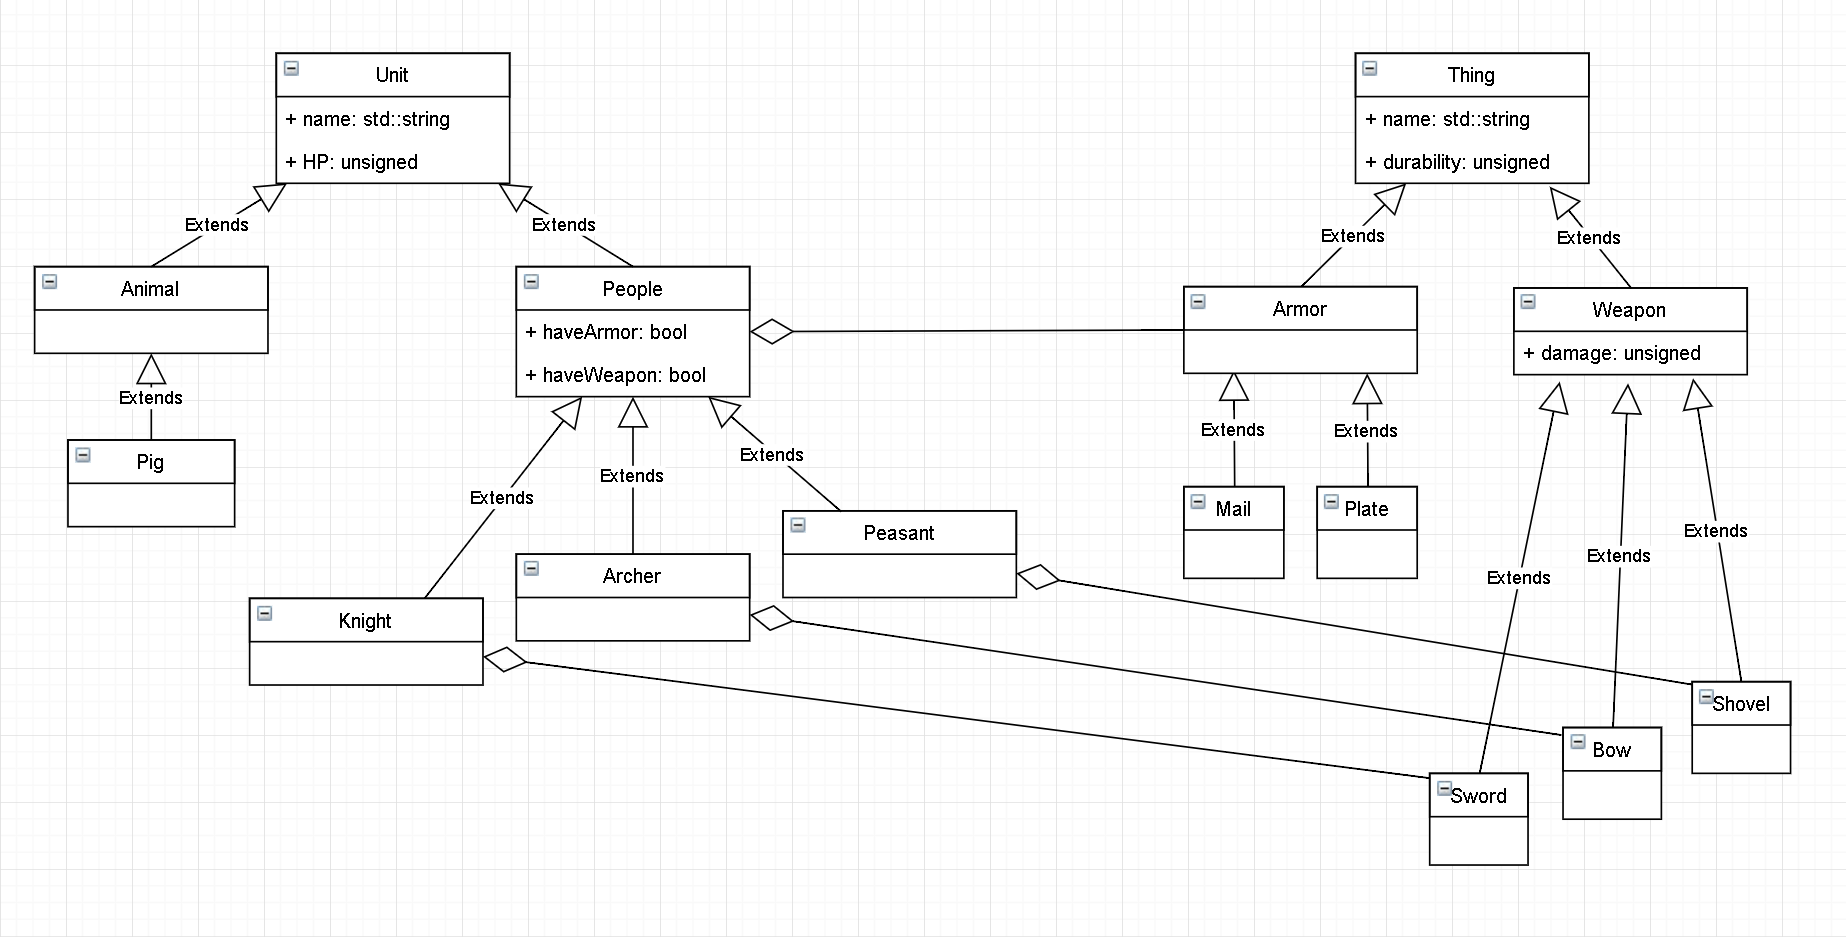
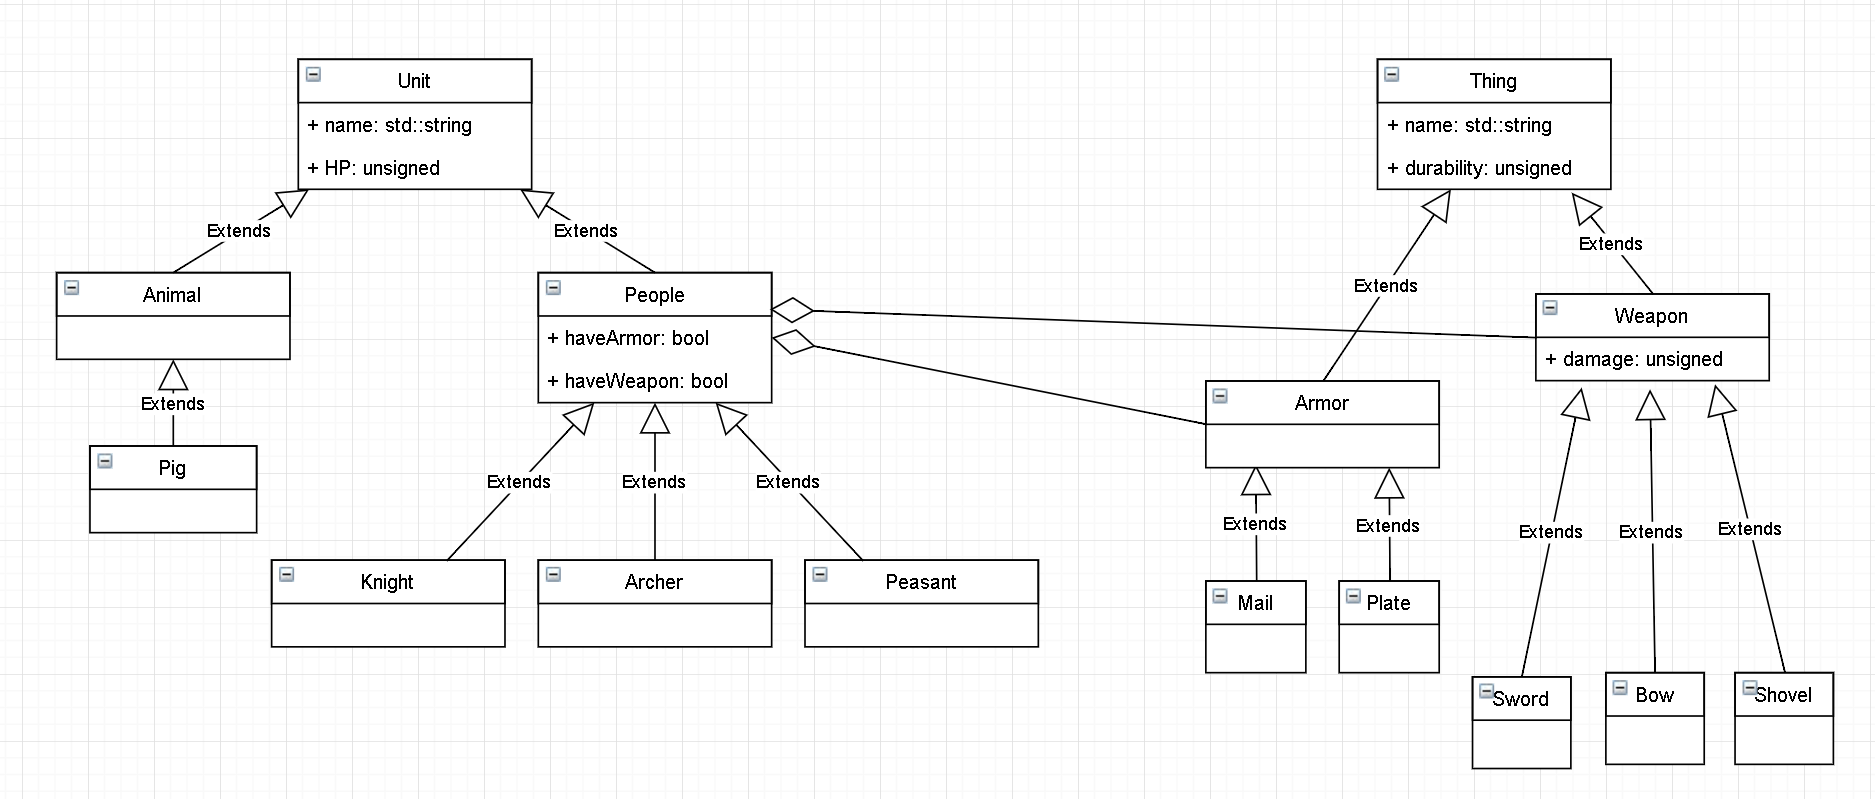
noch ein male

diff --git a/homework/Gospodinov/03/game class.cpp b/homework/Gospodinov/03/game class.cpp
@@ -59,21 +59,22 @@ class People : public Unit
 	bool haveWeapon;
 	bool haveArmor;
 	Armor* armor;
+	Weapon* weapon;
 };
 
 class Peasant : public People
 {
-	Shovel* shovel;
+	
 };
 
 class Archer : public People
 {
-	Bow* bow;
+	
 };
 
 class Knight : public People
 {
-	Sword* sword;
+	
 };
 
 class Animal : public Unit
